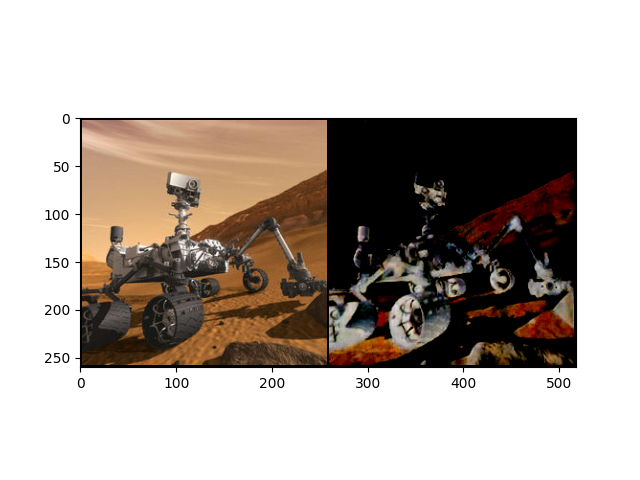
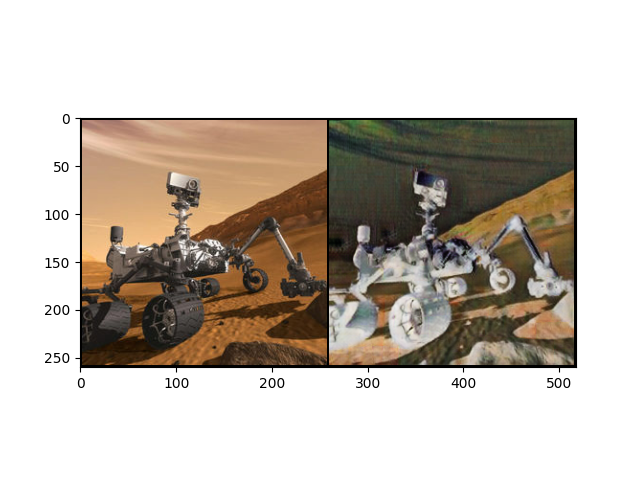
cyclegan 299

Changed region(s): [[0.5, 0.25, 0.9062, 0.7812]]

diff --git a/test.py b/test.py
@@ -194,20 +194,26 @@ else:
 batch_no = 1
 
 class CustomDataSet(Dataset):
-    def __init__(self, main_dir, transform):
-        self.main_dir = main_dir
-        self.transform = transform
-        all_imgs = os.listdir(main_dir)
-        self.total_imgs = natsort.natsorted(all_imgs)
+    def __init__(self, root, transform=None):
+        self.transform = transform_test
+        self.files_A = sorted(glob.glob(os.path.join(root) + '/*.*'))
+        self.new_perm()
+        assert len(self.files_A) > 0, "Make sure you downloaded the images!"
+
+    def new_perm(self):
+        self.randperm = torch.randperm(len(self.files_A))[:len(self.files_A)]
+
+    def __getitem__(self, index):
+        item_A = self.transform(Image.open(self.files_A[index % len(self.files_A)]).convert("RGB"))
+        if item_A.shape[0] != 3: 
+            item_A = item_A.repeat(3, 1, 1)
+        if index == len(self) - 1:
+            self.new_perm()
+        # Old versions of PyTorch didn't support normalization for different-channeled images
+        return item_A
 
     def __len__(self):
-        return len(self.total_imgs)
-
-    def __getitem__(self, idx):
-        img_loc = os.path.join(self.main_dir, self.total_imgs[idx])
-        image = Image.open(img_loc).convert("RGB")
-        tensor_image = self.transform(image)
-        return tensor_image
+        return len(self.files_A)
 
 means = np.array((0.5, 0.5, 0.5))
 stds = np.array((0.5, 0.5, 0.5))
@@ -226,10 +232,9 @@ with torch.no_grad():
         real_b = real_b.to(device)
         fake_a = gen_BA(real_b)
         #fake_a = gen_AB(real_b)
-        real_b = (real_b + 1) / 2
         catenation = torch.cat([real_b, fake_a])
-        #image_tensor = (catenation + 1) / 2
-        image_shifted = catenation
+        image_tensor = (catenation + 1) / 2
+        image_shifted = image_tensor
         image_unflat = image_shifted.detach().cpu().view(-1, *(dim_A, target_shape, target_shape))
         image_grid = make_grid(image_unflat[:25], nrow=5)
         plt.imshow(image_grid.permute(1, 2, 0).squeeze())
